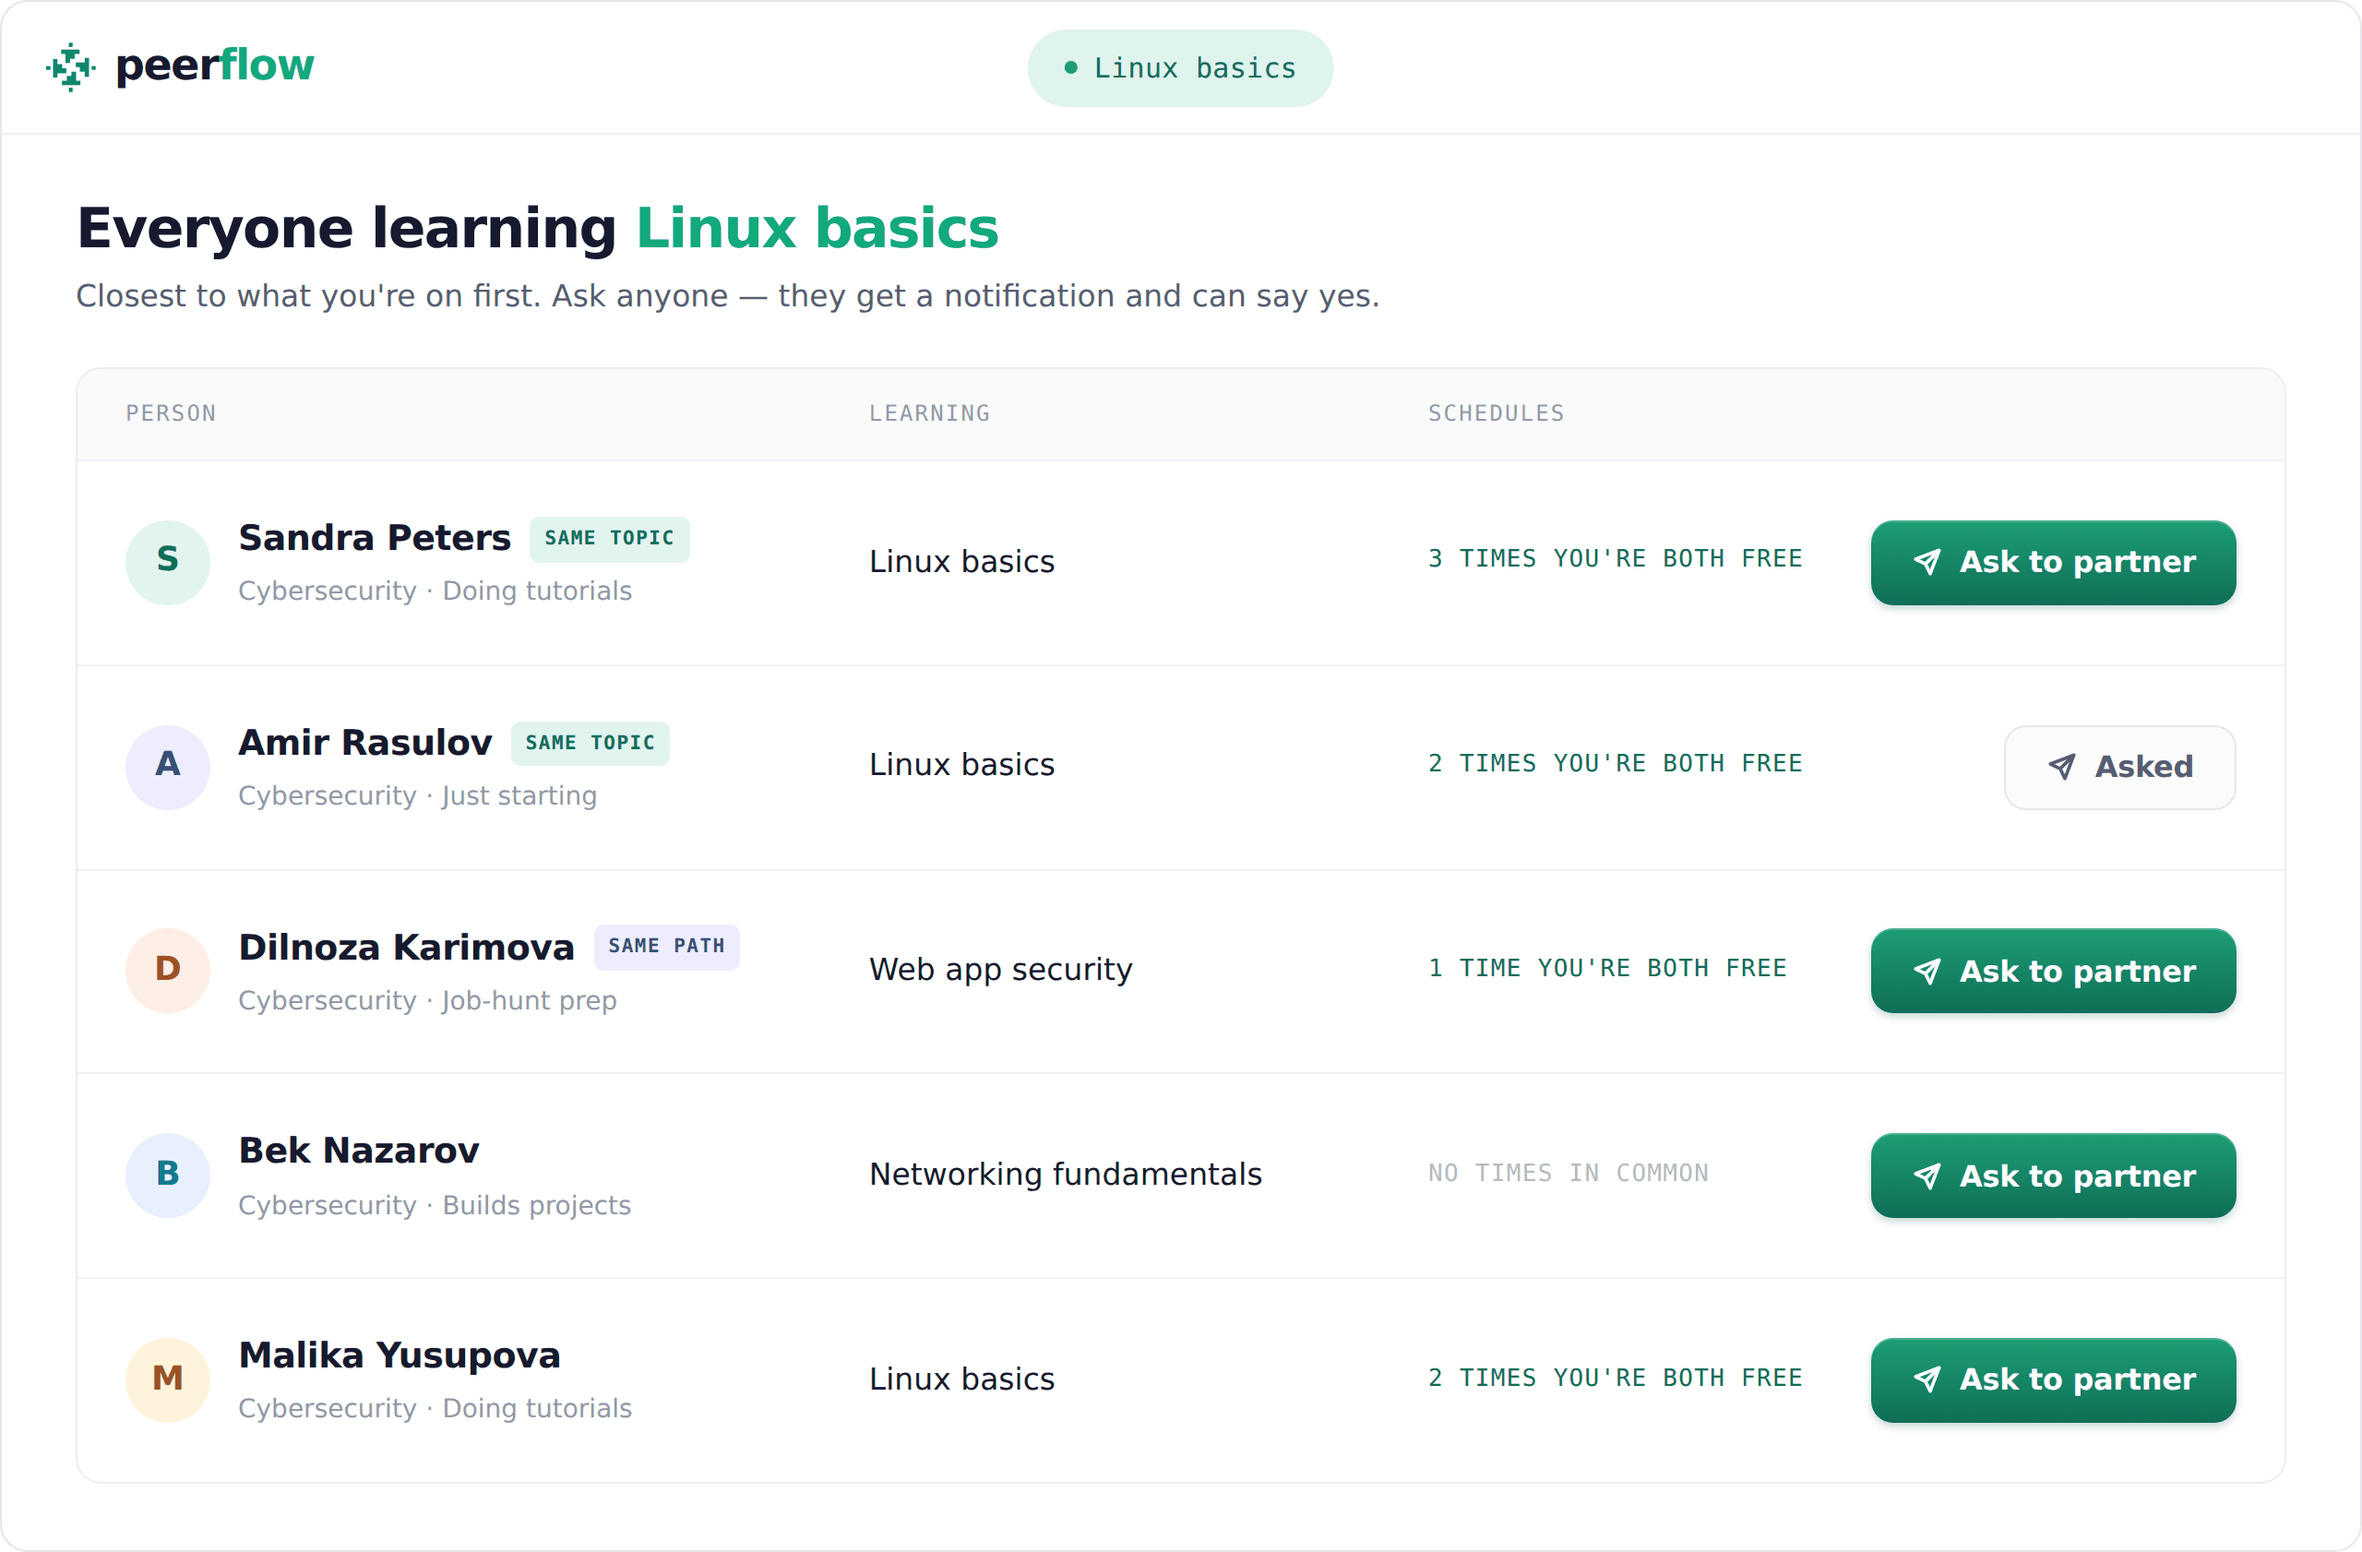
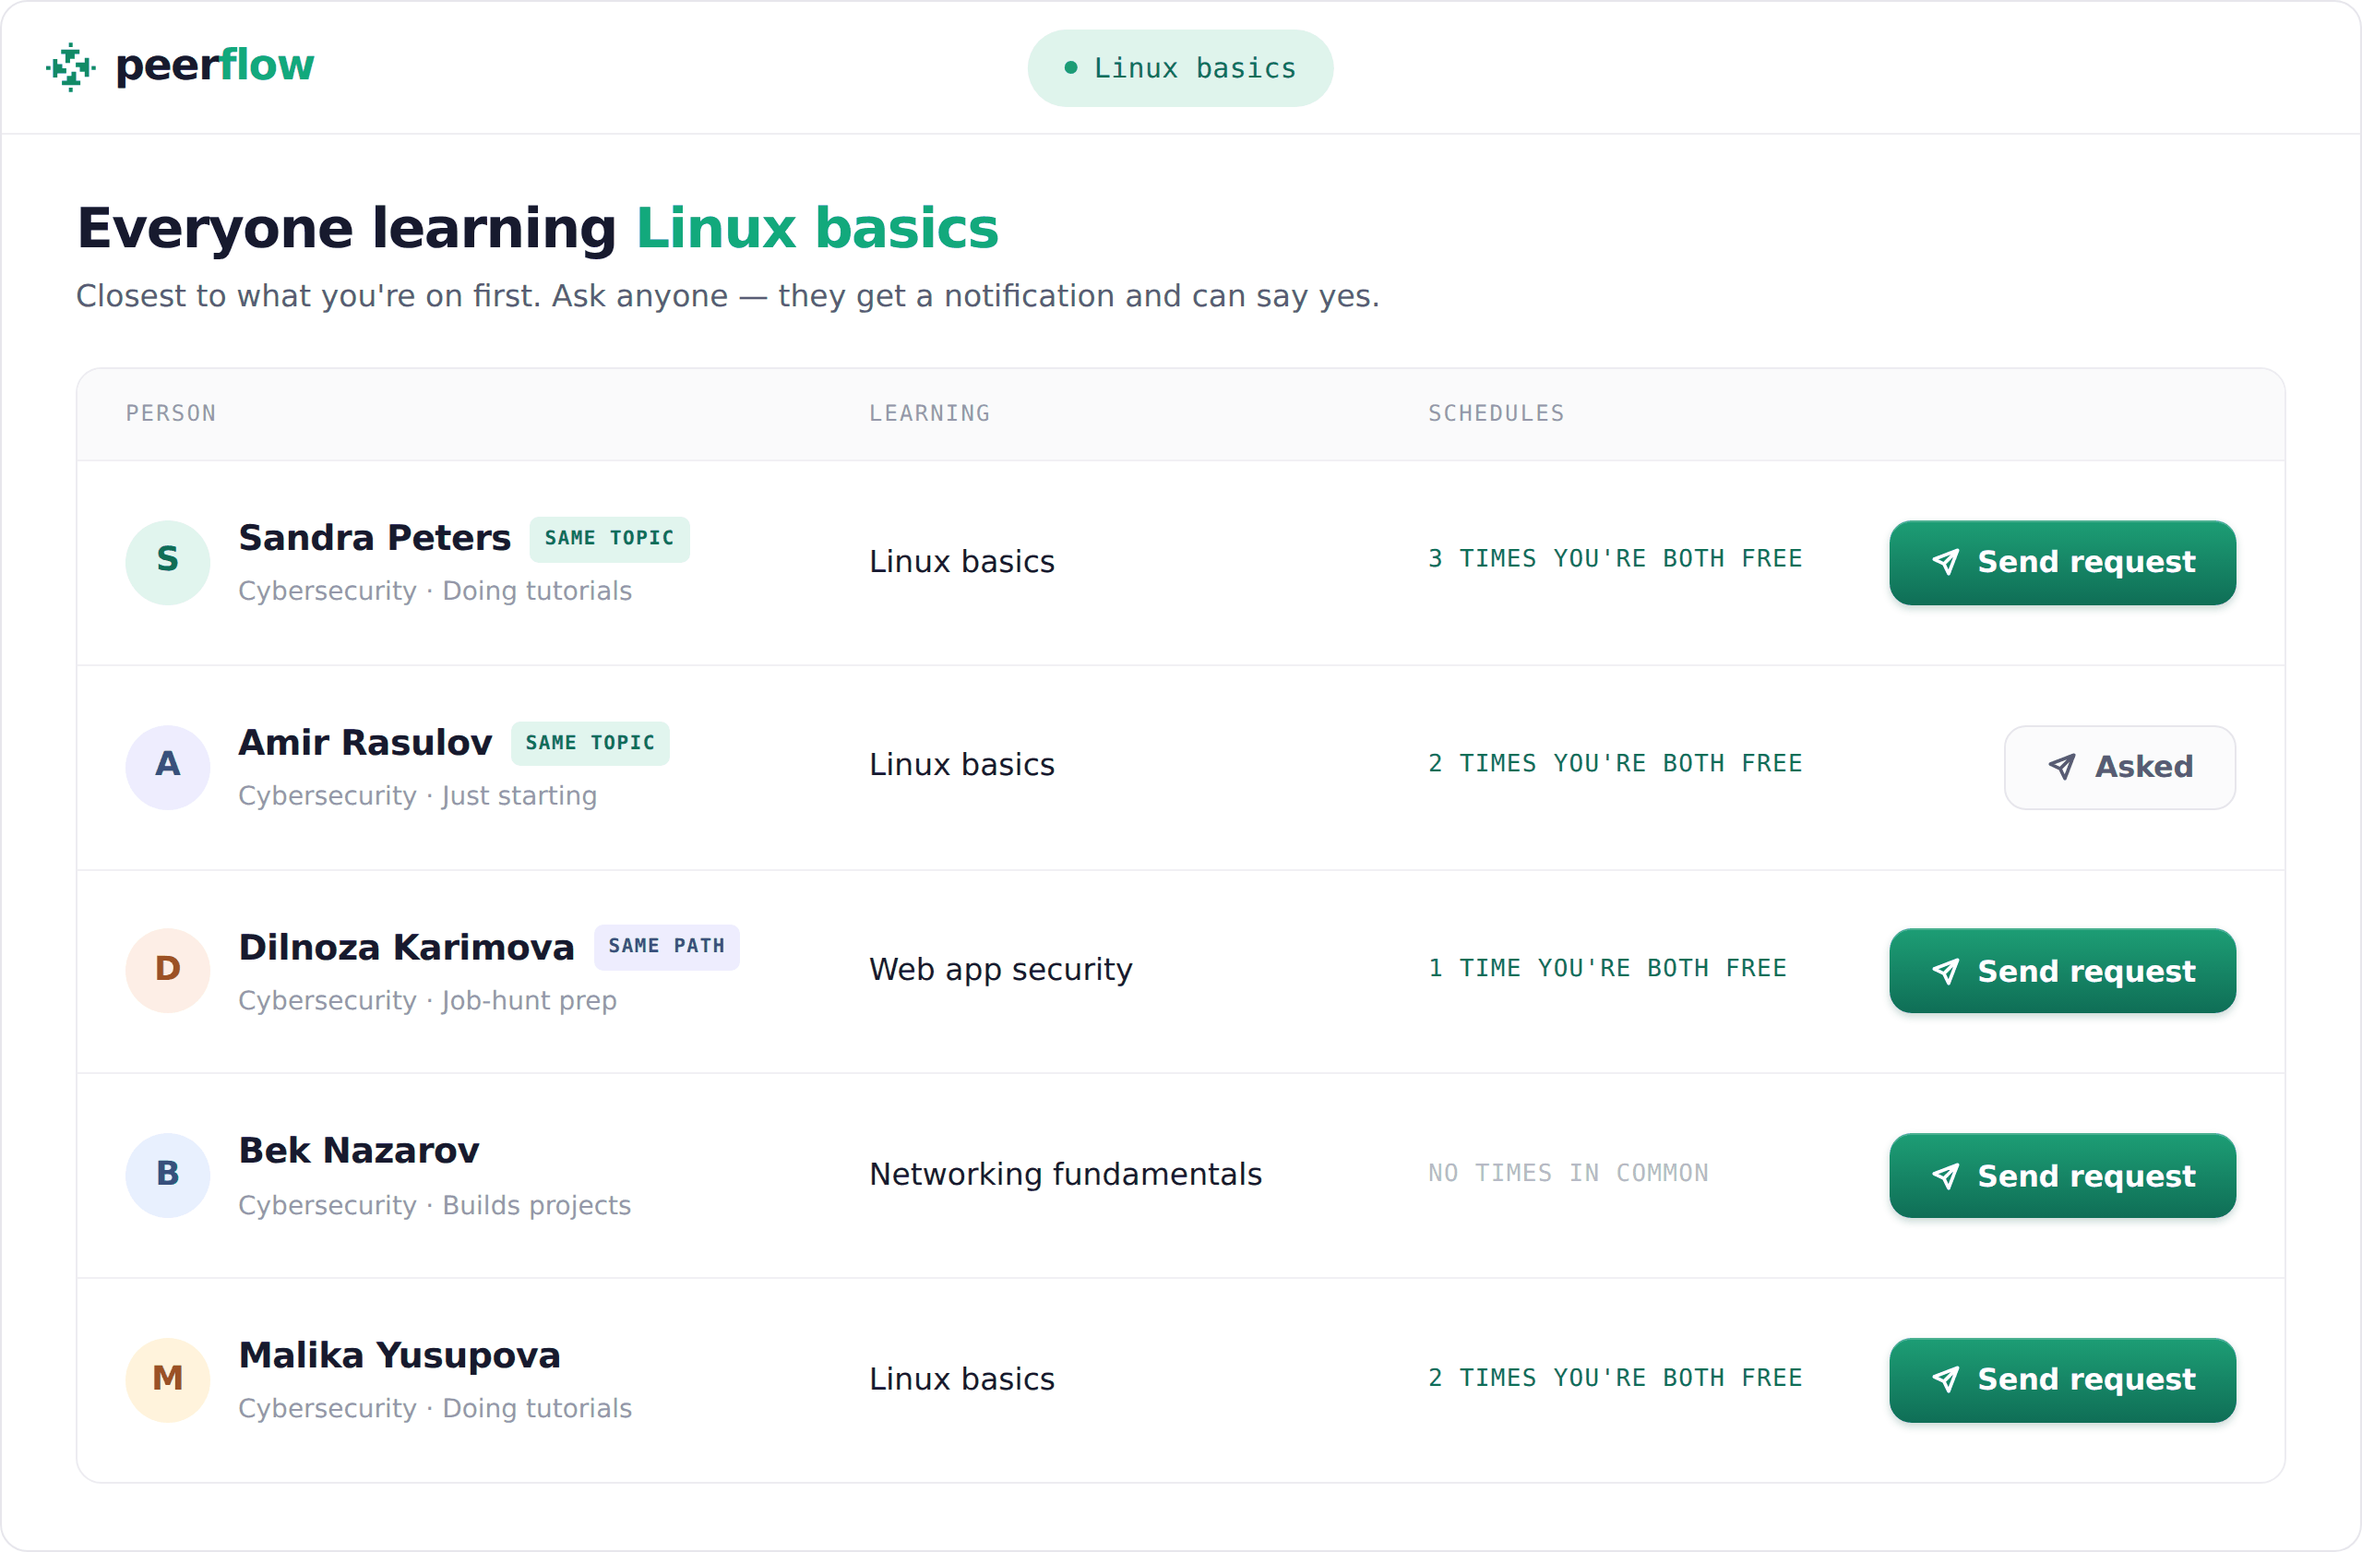
Rename Ask to partner to Send request
Same word on the People page, in the how-it-works frame, and in both docs.

The composer's own button drops to just "Send". It used to say "Send request"
too, which meant pressing "Send request" opened a box with "Send request" in
it a centimetre away — a fair question about which one actually sends. The row
button names the action, the one in the box completes it.

The chip for a request already sent still reads "Asked", which is short enough
for the column and still true. Say if you want "Request sent" instead.

Claude-Session: https://claude.ai/code/session_01YKC4UuyUEYgQuEBKY8hLuJ

diff --git a/assets/how-frames.html b/assets/how-frames.html
@@ -132,7 +132,7 @@
         <div class="pfree">3 times you're both free</div>
         <button class="pbtn">
           <svg viewBox="0 0 16 16" fill="none"><path d="M14 2L7 9M14 2l-4.6 12-2.4-5-5-2.4L14 2z" stroke="currentColor" stroke-width="1.7" stroke-linejoin="round"/></svg>
-          Ask to partner</button>
+          Send request</button>
       </div>
 
       <div class="prow">
@@ -158,7 +158,7 @@
         <div class="pfree">1 time you're both free</div>
         <button class="pbtn">
           <svg viewBox="0 0 16 16" fill="none"><path d="M14 2L7 9M14 2l-4.6 12-2.4-5-5-2.4L14 2z" stroke="currentColor" stroke-width="1.7" stroke-linejoin="round"/></svg>
-          Ask to partner</button>
+          Send request</button>
       </div>
 
       <div class="prow">
@@ -171,7 +171,7 @@
         <div class="pfree none">No times in common</div>
         <button class="pbtn">
           <svg viewBox="0 0 16 16" fill="none"><path d="M14 2L7 9M14 2l-4.6 12-2.4-5-5-2.4L14 2z" stroke="currentColor" stroke-width="1.7" stroke-linejoin="round"/></svg>
-          Ask to partner</button>
+          Send request</button>
       </div>
 
       <div class="prow">
@@ -184,7 +184,7 @@
         <div class="pfree">2 times you're both free</div>
         <button class="pbtn">
           <svg viewBox="0 0 16 16" fill="none"><path d="M14 2L7 9M14 2l-4.6 12-2.4-5-5-2.4L14 2z" stroke="currentColor" stroke-width="1.7" stroke-linejoin="round"/></svg>
-          Ask to partner</button>
+          Send request</button>
       </div>
     </div>
   </div>

diff --git a/app-people.html b/app-people.html
@@ -95,7 +95,7 @@
 
   function actionFor(userId){
     var r = reqByUser[userId];
-    if (!r) return '<button class="askbtn" data-ask="' + esc(userId) + '">Ask to partner</button>';
+    if (!r) return '<button class="askbtn" data-ask="' + esc(userId) + '">Send request</button>';
     if (r.status === 'accepted') return chip('ok',   'tick', 'Partners');
     if (r.status === 'declined') return chip('no',   'no',   'Declined');
     return r.direction === 'out'
@@ -265,7 +265,10 @@
       box.className = 'askbox';
       box.innerHTML =
         '<input type="text" maxlength="140" placeholder="Say what you\u2019re working on (optional)">' +
-        '<button class="btn" data-send="' + esc(id) + '">Send request</button>' +
+        /* Just "Send" — the row button is the one that says "Send request",
+           and two buttons a centimetre apart carrying the same three words
+           is a question about which one you are really pressing. */
+        '<button class="btn" data-send="' + esc(id) + '">Send</button>' +
         '<button class="small" data-cancel>Cancel</button>' +
         '<p class="ask-err" hidden></p>';
       slot(r).appendChild(box);
@@ -292,7 +295,7 @@
         return;
       }
       send.disabled = false;
-      send.textContent = 'Send request';
+      send.textContent = 'Send';
       err.textContent = res && res.demo
         ? 'You need to be signed in to send a request.'
         : (res && res.error) || 'Could not send the request — please try again.';

diff --git a/README.md b/README.md
@@ -20,7 +20,7 @@ static site with no build step.
 | `conduct.html` | Code of conduct |
 | `app.html` | **Sessions** — the signed-in home. Proposals waiting on an answer, what's booked, and the form to propose a time |
 | `app-sessions.html` | **Partner** — who you're paired with, and what you have in common |
-| `app-people.html` | **People** — everyone signed up, closest match first, with *Ask to partner* |
+| `app-people.html` | **People** — everyone signed up, closest match first, with *Send request* |
 | `app-profile.html` | Your name, topic, stage, timezone and free times |
 | `app-settings.html` | Password, account, sign out |
 | `app-badges.html` | What you've done so far |
@@ -79,7 +79,7 @@ There is no automatic matching engine, and no hand-editing of tables.
 
 1. **People** ranks everyone by how close they are to what you're learning —
    same topic first, then same path, then how many free windows you share.
-2. You press **Ask to partner** and can add a note. They get it in their bell.
+2. You press **Send request** and can add a note. They get it in their bell.
 3. They accept, and you're partners. Either of you can have more than one.
 4. On **Sessions**, one of you proposes a time. Nothing is booked until the
    other accepts; they can also decline or suggest another time. Either side

diff --git a/TESTING.md b/TESTING.md
@@ -62,7 +62,7 @@ the console line, not the sentence — the sentence is deliberately vague.
       profile.
 - [ ] The table under it lines up, and the **Schedules** column reads
       *"N times you're both free"*, matching the windows you actually share.
-- [ ] Ask to partner → box opens → type a note → Send → row becomes **Asked**.
+- [ ] Send request → box opens → type a note → Send → row becomes **Asked**.
 - [ ] **N:** bell shows **1**, panel says *Mokhibakhon wants to learn with you*
       with your note.
 - [ ] **N:** Accept. **M:** refresh → row reads **Partners**.
@@ -149,7 +149,7 @@ side that didn't click.
       gone — not an empty card with a heading on it.
 - [ ] A proposal never appears under **Booked**.
 - [ ] **People page:** *Asked*, *Partners*, *Declined*, *Waiting on you* and
-      *Ask to partner* are all the same size and weight in the table.
+      *Send request* are all the same size and weight in the table.
 
 ## 6. Speed
 
